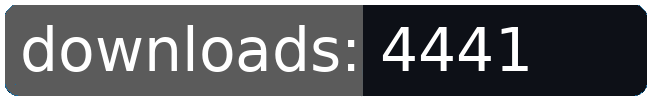
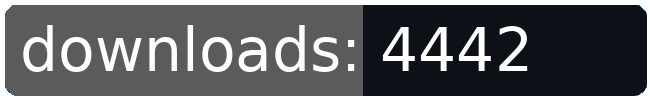
dl log written

Changed region(s): [[0.7692, 0.24, 0.8308, 0.69]]

diff --git a/README.md b/README.md
@@ -230,8 +230,8 @@
 		<td>4415</td>
 		<td>4423</td>
 		<td>4435</td>
-		<td>4441</td>
-		<td>+ 6</td>
+		<td>4442</td>
+		<td>+ 7</td>
 	</tr>
 	<tr>
 		<td>human.labels</td>
@@ -395,8 +395,8 @@
 		<td>4976</td>
 		<td>4984</td>
 		<td>4995</td>
-		<td>5003</td>
-		<td>+ 8</td>
+		<td>5004</td>
+		<td>+ 9</td>
 	</tr>
 	<tr>
 		<td>planet.map</td>
@@ -516,8 +516,8 @@
 		<td></td>
 		<td></td>
 		<td></td>
-		<td>222275</td>
-		<td>452</td>
+		<td>222277</td>
+		<td>454</td>
 	</tr>
 </table>
 </sub></sup>
@@ -817,8 +817,8 @@
 		<td>4976</td>
 		<td>4984</td>
 		<td>4995</td>
-		<td>5003</td>
-		<td>+ 8</td>
+		<td>5004</td>
+		<td>+ 9</td>
 	</tr>
 	<tr>
 		<td>landing.images</td>
@@ -938,8 +938,8 @@
 		<td>4415</td>
 		<td>4423</td>
 		<td>4435</td>
-		<td>4441</td>
-		<td>+ 6</td>
+		<td>4442</td>
+		<td>+ 7</td>
 	</tr>
 	<tr>
 		<td>tribute.republic</td>
@@ -1037,8 +1037,8 @@
 		<td></td>
 		<td></td>
 		<td></td>
-		<td>222275</td>
-		<td>452</td>
+		<td>222277</td>
+		<td>454</td>
 	</tr>
 </table>
 </sub></sup>